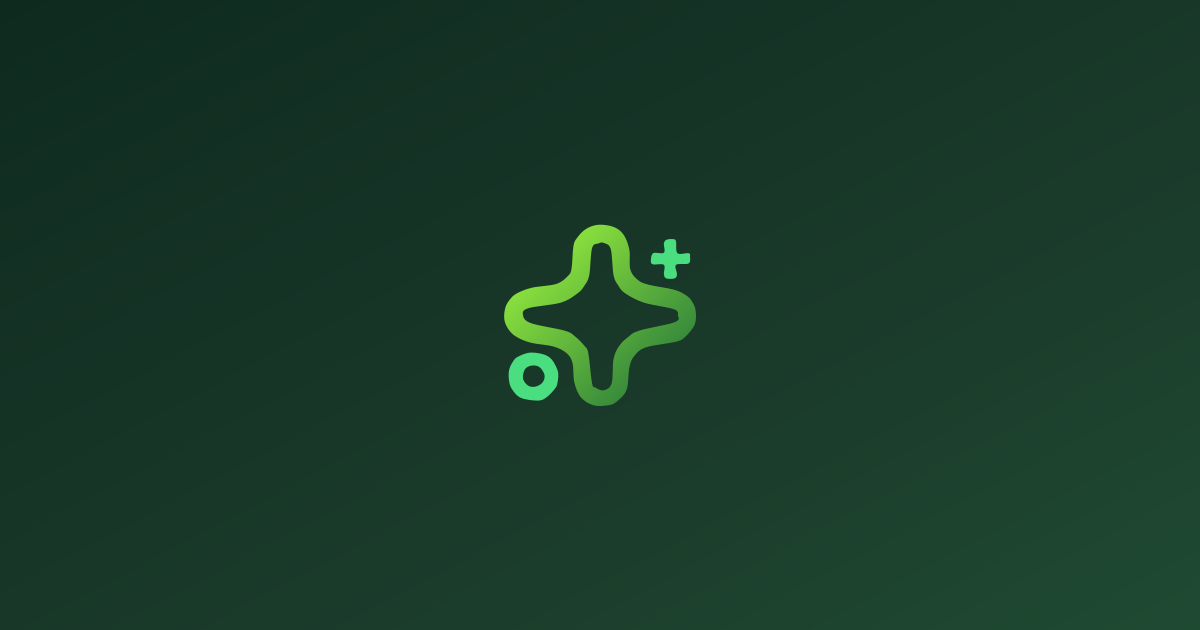
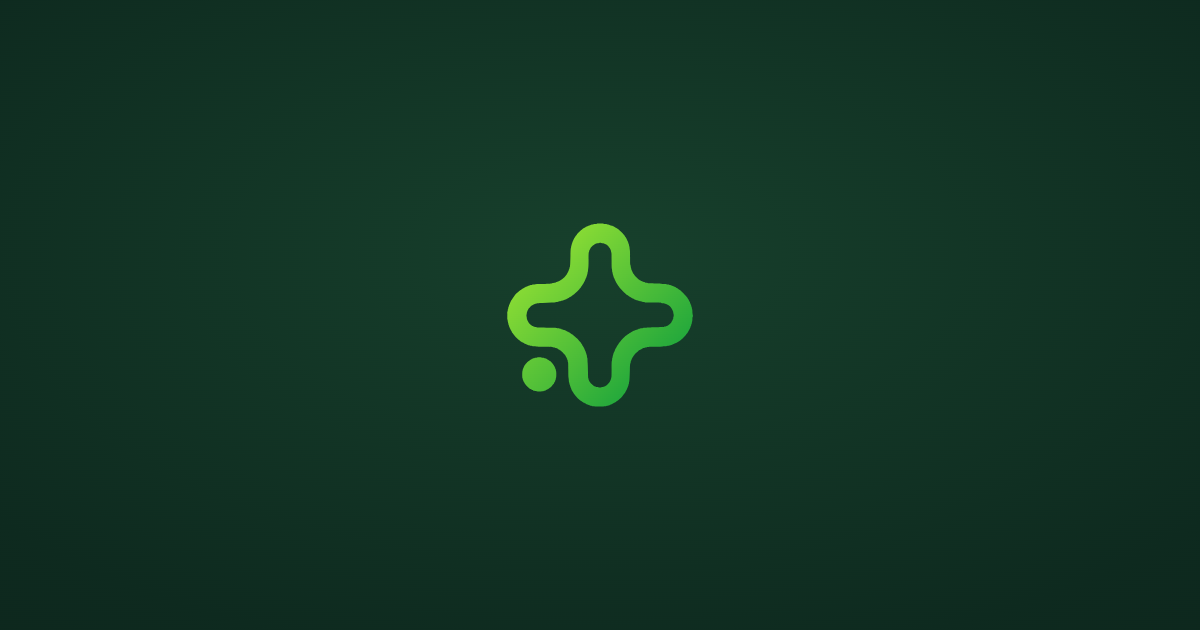
fix(connect): the share card — right mark, honest words
Shared to WhatsApp, /connect showed a card with the OLD "+" mark and the
marketing site's promise of visits. Both were wrong, and the words were
worse than the logo.

THE MARK. public/og-image.png had never been touched since the app was
first added (5754359) — every logo fix since, including c86ee44 "fix
logo.svg brand mark", updated the favicon, app icons, splash and the SVG
lockups and missed this one file. It was the last place the retired "+"
mark survived. Rebuilt on the same dark-green field from the canonical
public/brand/close-eye-icon.svg — same composition, nothing redrawn,
nothing invented, just the current mark.

THE WORDS. app/(connect)/layout.tsx set a <title> but never openGraph, so
every share inherited the marketing card: "home wellbeing visits, hospital
companionship" — the visits promise, which doesn't open until 15 August.
That card was the FIRST thing an invited family read, before the page even
loaded, and it contradicted the product behind it — the exact claim class
F1-F10 removed from Connect's voice. Connect now carries its own card,
using the honest copy already written in that file. The marketing home
keeps its own metadata, untouched.

sw v29 -> v30.

Changed region(s): [[0.6783, 0.7238, 1.0, 1.0], [0.4008, 0.3921, 0.5242, 0.6635], [0.5242, 0.3619, 0.5858, 0.573]]

diff --git a/closeeye-next/app/(connect)/layout.tsx b/closeeye-next/app/(connect)/layout.tsx
@@ -25,6 +25,30 @@ export function generateMetadata(): Metadata {
       'Close Eye learns about the people you love, so answers come from understanding — not guesses. When needed, trusted local people step in to help.',
     alternates: { canonical: '/connect' },
     robots: isConnectIndexable() ? { index: true, follow: true } : { index: false, follow: false },
+    /**
+     * Connect's own card. Without this, every share of this link inherited the marketing
+     * site's openGraph — "home wellbeing visits, hospital companionship" — which promises
+     * visits that don't open until 15 August. That card was the FIRST thing a family read,
+     * before the page loaded, and it contradicted the product behind it. The words below
+     * are the ones already written above: true today, no capability we can't deliver.
+     */
+    openGraph: {
+      type: 'website',
+      locale: 'en_IN',
+      url: '/connect',
+      siteName: 'Close Eye',
+      title: 'Close Eye Connect — Your Trusted Presence',
+      description:
+        'Tell Close Eye about someone you love, in one sentence. It understands from there — never guesses.',
+      images: [{ url: '/og-image.png', width: 1200, height: 630, alt: 'Close Eye' }],
+    },
+    twitter: {
+      card: 'summary_large_image',
+      title: 'Close Eye Connect — Your Trusted Presence',
+      description:
+        'Tell Close Eye about someone you love, in one sentence. It understands from there — never guesses.',
+      images: ['/og-image.png'],
+    },
   }
 }
 

diff --git a/closeeye-next/public/sw.js b/closeeye-next/public/sw.js
@@ -3,7 +3,7 @@
    offline fallback; stale-while-revalidate for static assets. Never caches
    API or cross-origin requests. */
 
-const VERSION = 'closeeye-v29'
+const VERSION = 'closeeye-v30'
 const SHELL = `${VERSION}-shell`
 const ASSETS = `${VERSION}-assets`
 const OFFLINE_URL = '/offline'